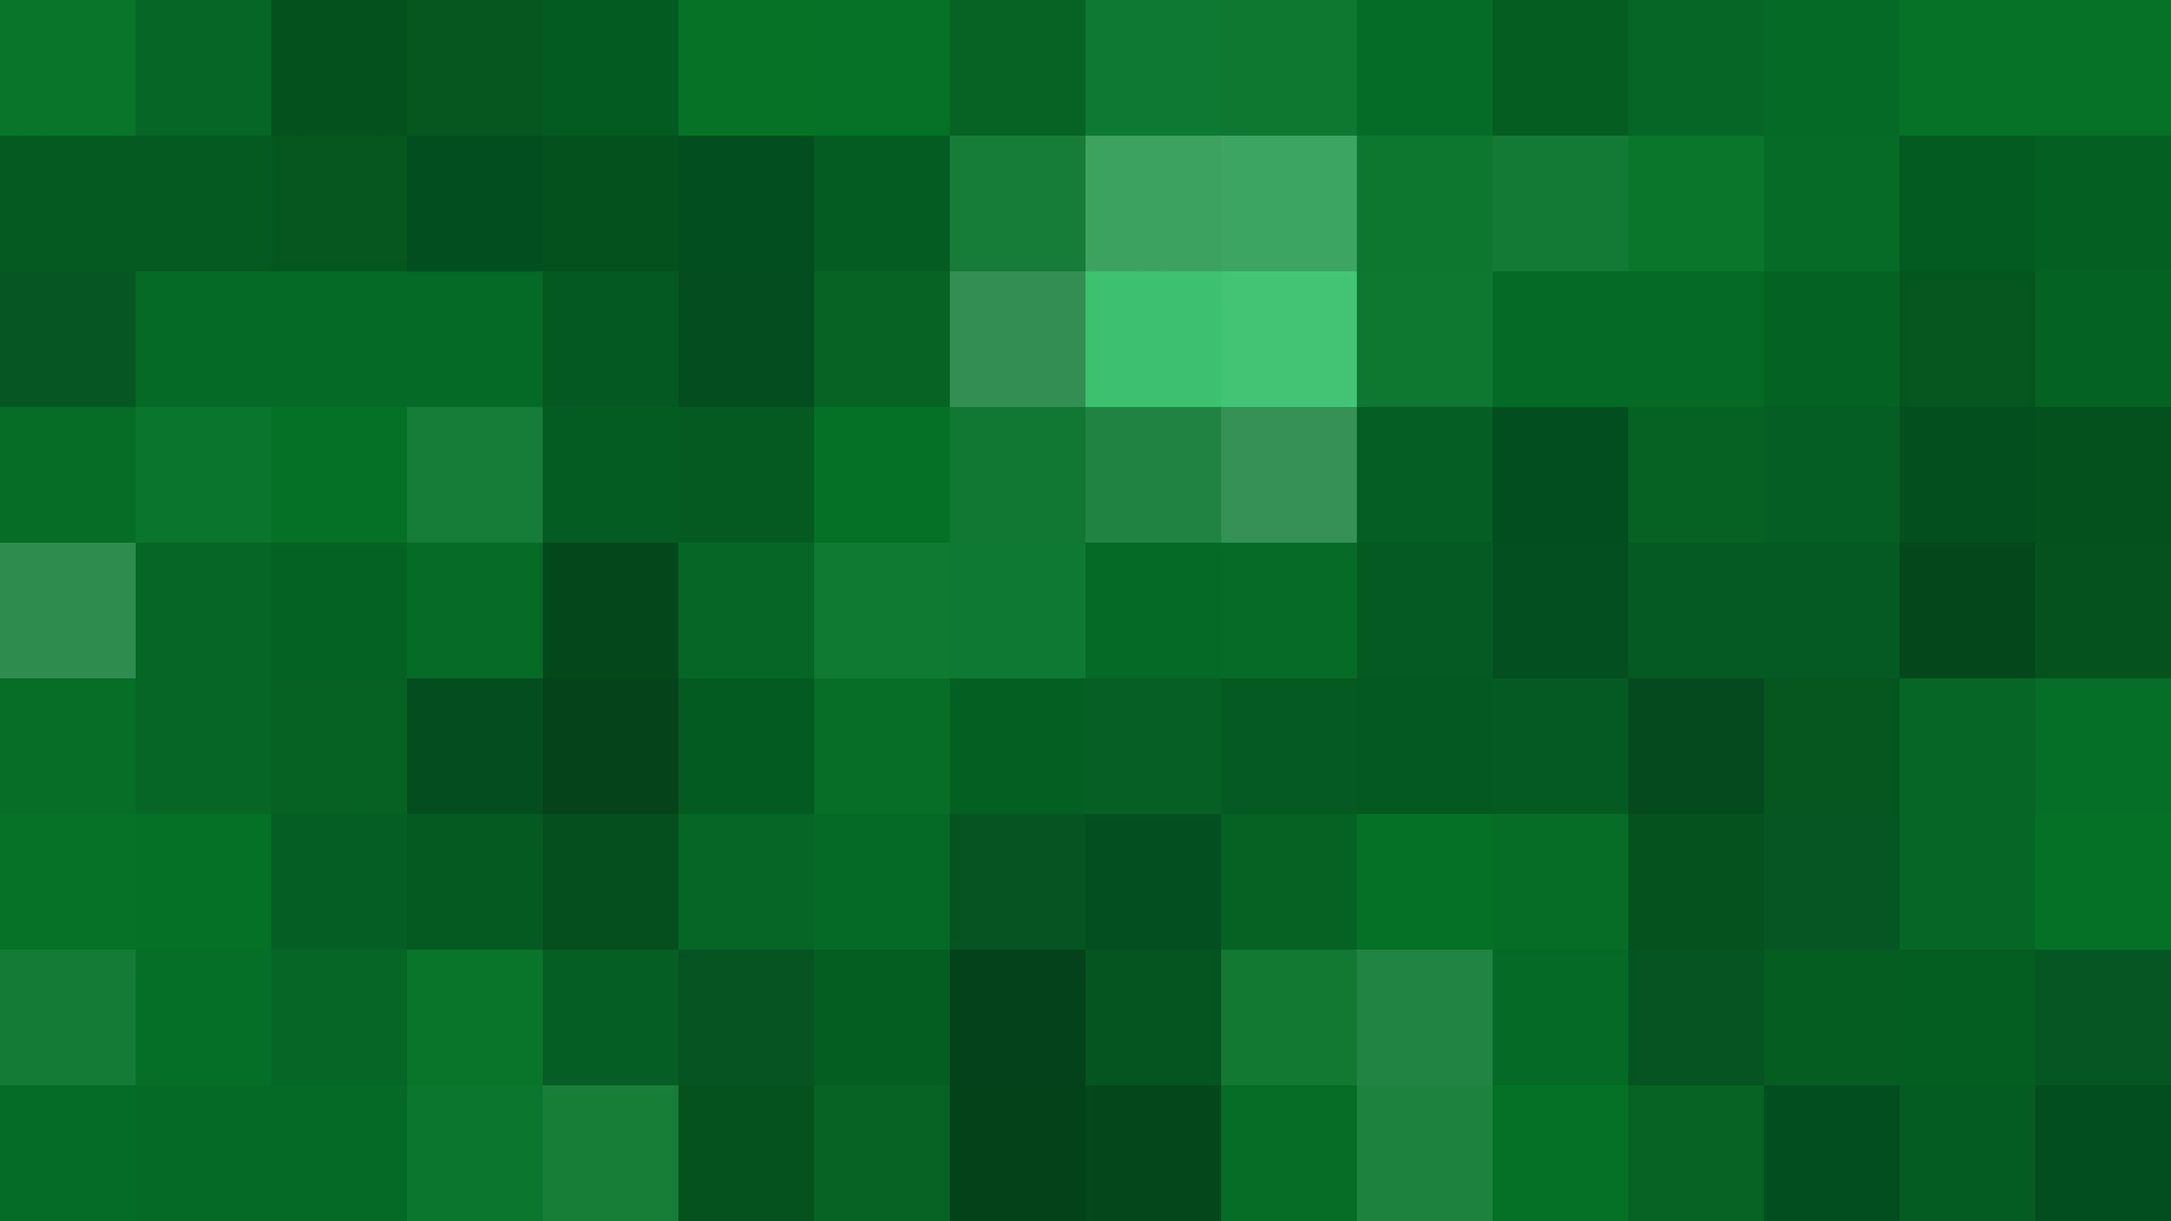
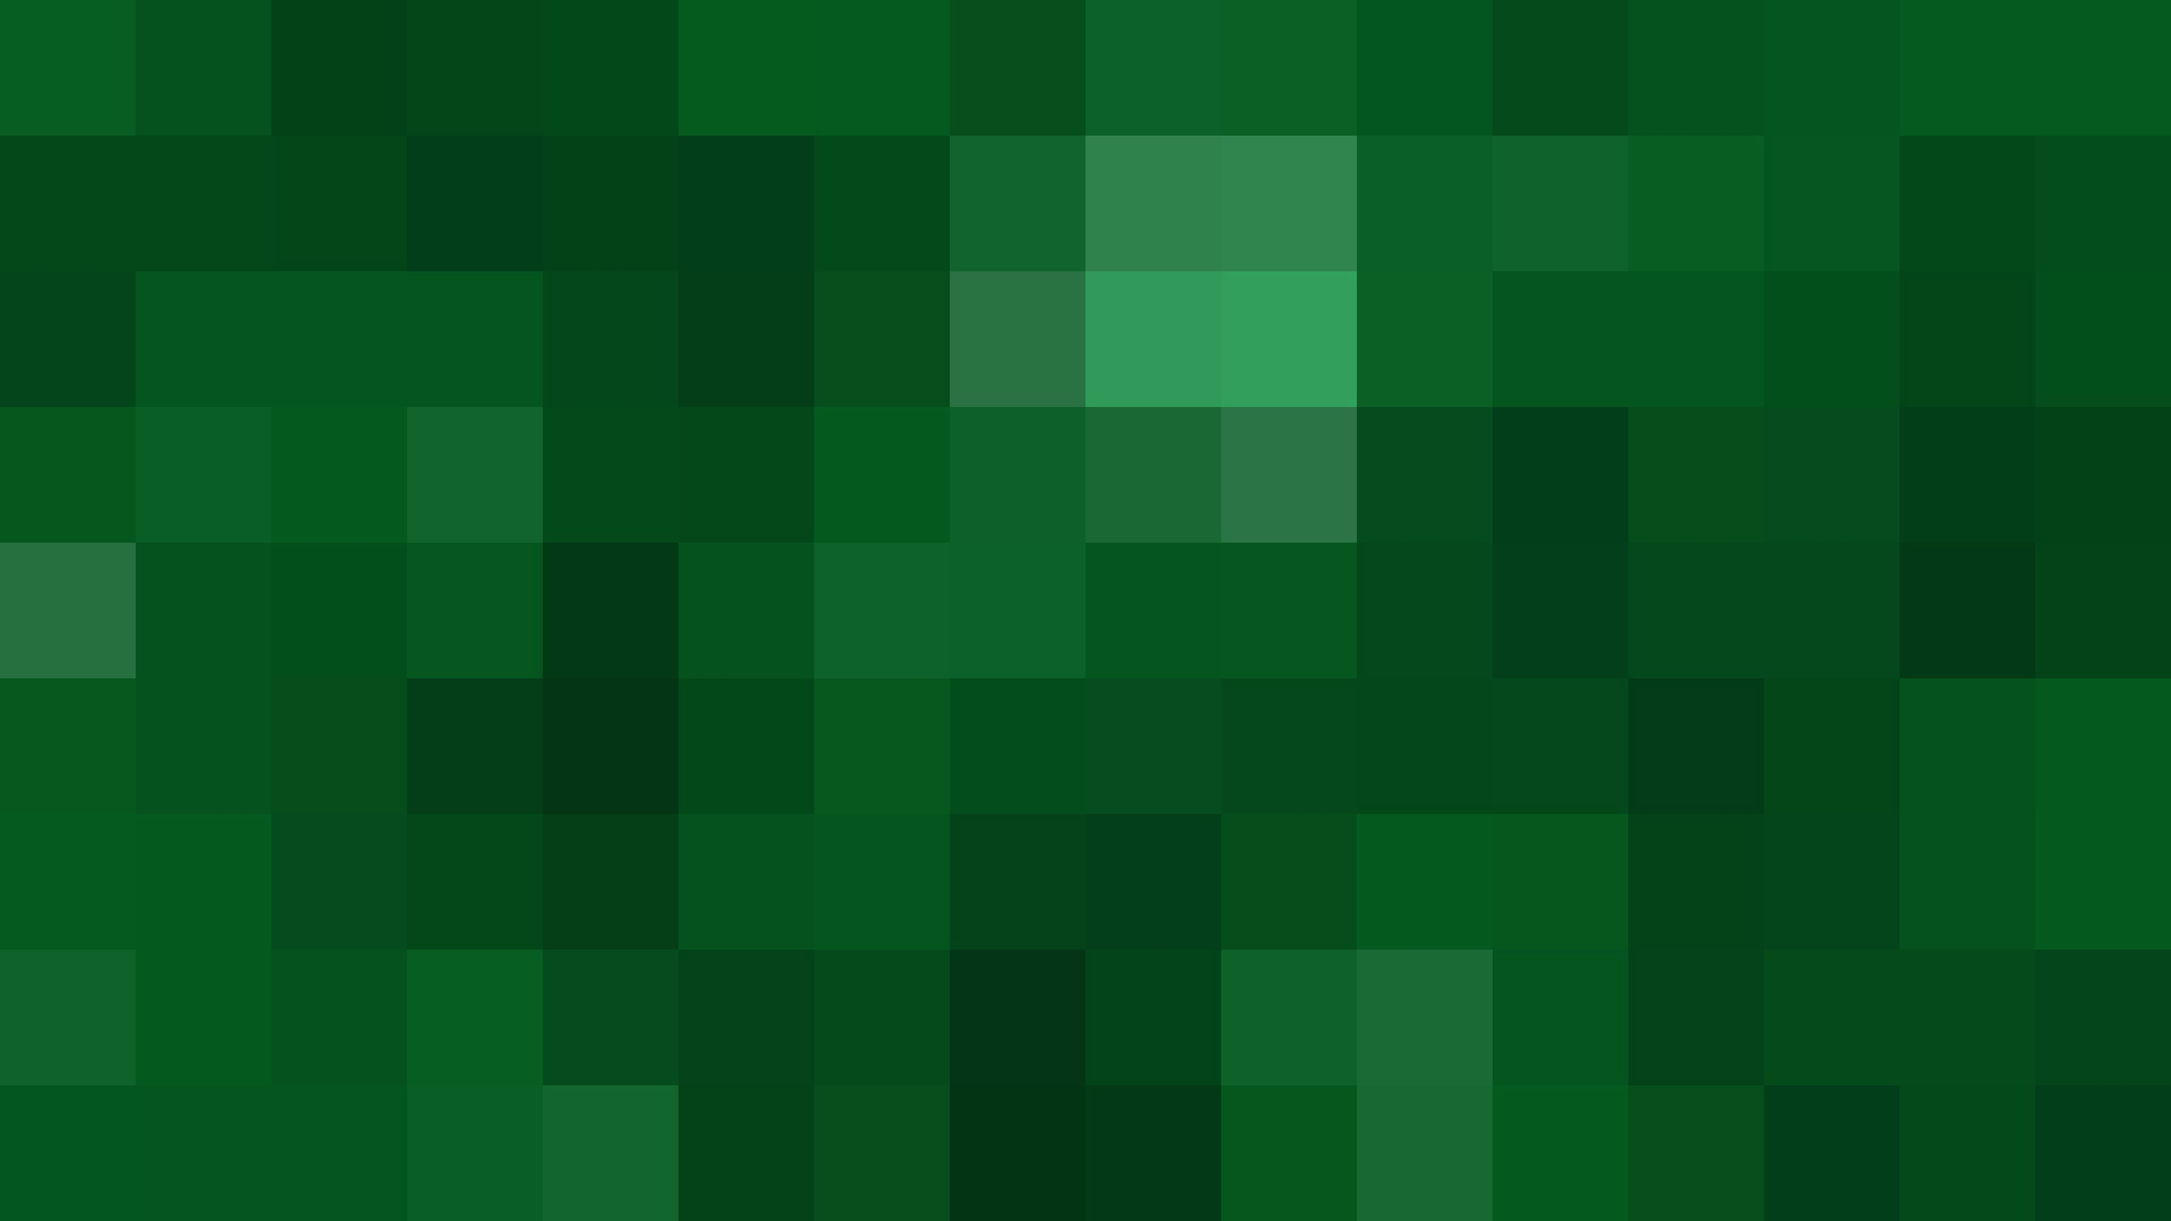
I did a lot of things now.
Funny enough, now is when I find a great deal of motivation in working on this passion of mine.

The three biggest changes visually are all text lines being centered on the page, the links being further separated by that respective class and the backgrounds made even darker for added visibility on the text.

There are also some other niffy changes I've done for further polish and all documentation along with it shall continue for a while as I now cherish this site of  mine.

diff --git a/index.html b/index.html
@@ -34,8 +34,8 @@
       <li><a href="#home">Home</a></li>
       <li><a href="#about">Bio</a></li>
       <li><a href="#education">Education</a></li>
-      <li><a href="#skills">Skills</a></li>
       <li><a href="#work">Work</a></li>
+      <li><a href="#skills">Skills</a></li>
       <li><a href="#contact">Contact</a></li>
       <div class="clearfix"></div>
     </ul>
@@ -112,9 +112,12 @@ given to the heading elements of each section. -->
       <div class="text">
 
         Of youth as a High School Sophomore, I'm seeking out job opportunity to power America's great future.
-        Coding is a useful of mine where I specialize in Hyper Text Markup Languge (HTML) for website deveolpment.
+        Coding is a versatile talent of mine where I specialize in Hyper Text Markup Languge (HTML) for website
+        deveolpment.
         I have passions for other activities such as competing in gaming tournaments, but also enjoy the outdoors with
         biking, swimming, and even running.
+
+
 
       </div>
 
@@ -162,15 +165,18 @@ given to the heading elements of each section. -->
 
       <div class="text">
 
-        I grew up in many different educational environments through my grade levels in clubs, and other outside school groups.
+        I grew up in many different educational environments through my grade levels in clubs, and other outside school
+        groups.
         These environments have exposed me to people who I've built a knack for aiding, that still persists today.
 
       </div>
 
       <div class="text">
 
-        My grades of all A's and B's have been a showing of how I'm able to keep up with myself as well during these years of assigned worked.
-        Once I graduate High School in my projected year of 2020 with my cumulative 4.0 GPA, I desire to further my career in the business world.
+        My grades of all A's and B's have been a showing of how I'm able to keep up with myself as well during these
+        years of assigned worked.
+        Once I graduate High School in my projected year of 2020 with my cumulative 4.0 GPA, I desire to further my
+        career in the business world.
 
       </div>
 
@@ -202,30 +208,36 @@ given to the heading elements of each section. -->
     <div class="text">
 
       Starting recently, I've been helping out businesses with volunteering.
-      My first of many major commitment has been with the Arizona Interscholastic Cycling Association where I helped with setting up race equipment before continuing my efforts with contribution towards racing registrations.
+      My first of many major commitment has been with the Arizona Interscholastic Cycling Association where I helped
+      with setting up race equipment before continuing my efforts with contribution towards racing registrations.
 
     </div>
 
     <div class="text">
 
-      In the digital world however, I've gone on to create multiple website, most of which entirely from scratch with only my own responsible for the end products, such as this one. 
-      Having a likeness in video games along my experience in Coding has also lead me to create many passion projects in High School that relate to Game design as well.
+      In the digital world however, I've gone on to create multiple website, most of which entirely from scratch with
+      only my own responsible for the end products, such as this one.
+      Having a likeness in video games along my experience in Coding has also lead me to create many passion projects
+      in High School that relate to Game design as well.
 
 
     </div>
 
     <div class="text">
 
-      All these efforts and many more lead a vast amount of potenital for what I see myself capable accomplishing for even bigger causes with my dire to forge bigger contributations to society
-      And my personal resume, which may be viewed here, should showcase this: 
+      All these efforts and many more lead a vast amount of potenital for what I see myself capable accomplishing for
+      even bigger causes with my dire to forge bigger contributations to society
+      And my personal resume, which may be viewed here, should showcase this:
 
     </div>
 
     <div class="text">
 
-      <a href="https://docs.google.com/document/d/19BAfIl3LLIyG31QPivQHDITuJ-4JKKwjqflXByrA3Bs/edit">:Resume:</a>
+      <a class="special" href="https://docs.google.com/document/d/19BAfIl3LLIyG31QPivQHDITuJ-4JKKwjqflXByrA3Bs/edit">:Resume
+        Document:</a>
 
-      <!-- The link to my resume is put in here as a direct link to the Google Drive. -->
+      <!-- The link to my resume is put in here as a direct link to said Google Drive. I also put it in
+      a sperate div class and give it a class of "special" so I can make it futher stand out. -->
 
     </div>
 
@@ -260,20 +272,24 @@ given to the heading elements of each section. -->
       <div class="text">
 
         Naturally, my talent for web design has brought me excellent motor skills with HTML5 and CSS3 programs.
-        I also must put my version control skills to the test in the process as well to manage all of my works effectively between multiple working stations.
+        I also must put my version control skills to the test in the process as well to manage all of my works
+        effectively between multiple working stations.
 
       </div>
 
       <div class="text">
 
-        Systems can also be the name of my game as well because of my long history in computer usage stemming even from my most impacting childhood days of deep learning.
-        That wide array of knowledge of computers has even left me among my many friends and even teachers as the first requested source for technical support, where I show great competence. 
+        Systems can also be the name of my game as well because of my long history in computer usage stemming even from
+        my most impacting childhood days of deep learning.
+        That wide array of knowledge of computers has even left me among my many friends and even teachers as the first
+        requested source for technical support, where I show great competence.
 
       </div>
 
       <div class="text">
 
-        My skills developing even further into areas such as technical writing and the future of my Javascript knowledge should show how much I'm capable of covering in the technical department.
+        My skills developing even further into areas such as technical writing and the future of my Javascript
+        knowledge should show how much I'm capable of covering in the technical department.
 
       </div>
 
@@ -299,41 +315,56 @@ given to the heading elements of each section. -->
 
       <img class="label" src="contact_label.png" alt="">
 
+      <!-- While teh specification sheet said to put the contacts in your work field section, I decided to give them their own section as the footer to stand out even easier for people interested. -->
+
     </div>
 
 
     <div class="text">
 
-      If you are at all interested in what I can potential do, I am very welcome to both answer questions and stir up discussions of how I should play a part of your plan.
+      If you are at all interested in what I can potential do, I am very welcome to both answer questions and stir up
+      discussions of how I should play a part of your plan.
 
     </div>
 
     <div class="text">
 
-      For calling, I keep it in my best interest to always have my cellular device on me with the number: <em> <a href="#contact">"623.296.7920"</a></em>
+      For calling, I keep it in my best interest to always have my cellular device on me with the number: <em> </em>
 
     </div>
 
     <div class="text">
+      <a class="special" href="#contact">"623.296.7920"</a>
+    </div>
 
-      My email account as well would consist of my active School inbox with: <em> <a href="#contact">"pcapuano@pvlearners.net"</a>
-      </em>
+
+    <div class="text">
+
+      My email account as well would consist of my active School inbox with: <em>
 
     </div>
 
     <div class="text">
-
-      And my last best place to contact with me would be my Slack profile with the email of: <em> <a href="#contact">"pcapuano978@west-mec.org"</a>
-      </em>
-
+      <a class="special" href="#contact">"pcapuano@pvlearners.net"</a>
     </div>
-
-    <!-- My three contact methods are put in with further em tags for added importance, and are also made links to the
-  Contact section again so they may inherit link styles as well. -->
 
     <div class="text">
 
-      If you have any questions regarding anything, then please let me know and I'll try to reach you as soon as I can!
+      And my last best place to contact with me would be my Slack profile with the email of:
+
+
+    </div>
+
+    <div class="text">
+      <a class="special" href="#contact">"pcapuano978@west-mec.org"</a>
+    </div>
+
+    <!-- My three contact methods are put in with added importance thanks to them being on seperate lines and also with the same "special" class as the resume link. -->
+
+    <div class="text">
+
+      If you have any questions regarding anything, then please let me know and I'll try to reach you as soon as I
+      possibly can!
 
     </div>
 

diff --git a/main.css b/main.css
@@ -11,8 +11,7 @@ html {
     position: relative;
 }
 
-/* The background image is set in and is very tiny to give a unique tile effect that will be rpeatible seen throughout the pages.
-The page is also given a relative page positioning. */
+/* The background image is set in and is very tiny to give a unique tile effect that will be rpeatible seen throughout the pages. The page is also given a relative page positioning. */
 
 body {
     width: 100%;
@@ -20,11 +19,37 @@ body {
 
 /* Body width is set to take up the whole page's amount. */
 
+div.text {
+    text-align: center;
+}
+
+/* All informational text in the div elements, further classified by the "text" class, will have centered text across the pages.  */
+
 .clearfix:after {
     content: "";
     display: table;
     clear: both;
 }
+
+a.special {
+    font-size: 1.25em;
+    -webkit-text-stroke: 1px;
+    -webkit-text-fill-color: black;
+}
+
+/* All links with the tag of "special" have a font style of 1.25em with black 1 pixel outline strokes. */
+
+a.special:visited {
+    color: white;
+}
+
+/* The speical links regardless of being visted or not, are to be always be the white color. */
+
+a.special:hover {
+    color: aqua;
+}
+
+/* When the cursor hovers over the special links, they will have their color changed to aqua. */
 
 /* Universal container collpase fail safe put in after all pages. */
 
@@ -71,8 +96,7 @@ h1#name {
     opacity: .8;
 }
 
-/* The main name h1 element pushes the padding up and down by 1.7 ems, is darkgrat and centered, has a size
-of 5em, and is given a text shadow three pixels displaced horizontally and vertically alongside slight transparency.  */
+/* The main name h1 element pushes the padding up and down by 1.7 ems, is darkgrat and centered, has a size of 5em, and is given a text shadow three pixels displaced horizontally and vertically alongside slight transparency.  */
 
 section#home {
     padding: 6em 0em 6em 0em;
@@ -82,8 +106,7 @@ section#home {
 }
 
 /* The section in the home is given horizontal padding of 6em, no margins, a background gradient
-that goes from transpaent black to transparent white back and forth,
-and a filter to give it drop shadows on the edges. */
+that goes from transpaent black to transparent white back and forth, and a filter to give it drop shadows on the edges. */
 
 nav ul {
     text-align: center;
@@ -100,10 +123,7 @@ nav ul {
     border: solid 1px aqua;
 }
 
-/* The manin navigation tab has its text cented, with big horizontal padding alongside slight bottom padding, takes up
-the full screen width, has a height of 1 em, a perfectly centered margin space, no list decorations, a font-family
-list as such, given another tile background with only 2% in size; all of which is fixed and always in-front with a border
-that is solid with 1px that is aqua colored. */
+/* The manin navigation tab has its text cented, with big horizontal padding alongside slight bottom padding, takes up the full screen width, has a height of 1 em, a perfectly centered margin space, no list decorations, a font-family list as such, given another tile background with only 2% in size; all of which is fixed and always in-front with a border that is solid with 1px that is aqua colored. */
 
 nav li {
     padding: 0 3%;
@@ -121,8 +141,7 @@ nav li a {
     font-size: 1.5em;
 }
 
-/* The individual links in the navigation list have their rext-decoration removed, are lavender, are given a black
-text-shadow with 1px on both offsets, font-weight to bold, and a font-size of 2em. */
+/* The individual links in the navigation list have their rext-decoration removed, are lavender, are given a black text-shadow with 1px on both offsets, font-weight to bold, and a font-size of 2em. */
 
 nav ul a:hover {
     color: black;
@@ -141,39 +160,36 @@ section#about {
     border: inset darkgray 2px;
 }
 
-/* Our first section, the about page, has a black tiled background put in place with a 2px, inset, darkgray border
-that will be shared with the rest of the elements. */
+/* Our first section, the about page, has a black tiled background put in place with a 2px, inset, darkgray border that will be shared with the rest of the elements. */
 
 #about h1 {
     text-align: center;
     float: center;
     color: darkgray;
-    font-size: 3em;
+    font-size: 3.5em;
     text-shadow: 2px 2px black;
     -webkit-text-stroke: 1px;
     -webkit-text-fill-color: black;
 }
 
-/* The h1s starting with this one have their text alinged to the center, alongside getting flated their, text colors of
-darkgray, font-sizes of 3em, black text-shadows with 2px offsets, and finally 1px color outlines of black.  */
+/* The h1s starting with this one have their text alinged to the center, alongside getting flated their, text colors of darkgray, font-sizes of 3.5em, black text-shadows with 2px offsets, and finally 1px color outlines of black.  */
 
 #about h2 {
     text-align: center;
     color: darkgray;
+    padding-bottom: 1em;
     font-size: 2.5em;
     text-shadow: 2px 2px black;
 }
 
-/* An h2 element exclusive to this part has its text also centered, is darkgray in color, has a font-size of 2.5em,
-and has a text-shadow with 2px offsets that is black. */
+/* An h2 element exclusive to this part has its text also centered, is darkgray in color, posses a bottom padding of 1em, has a font-size of 2.5em, and has a text-shadow with 2px offsets that is black. */
 
 #about img {
     float: right;
     padding: 0 3% 3%;
 }
 
-/* Every odd numbered page starting with the about section will have their image floated to the right, and padded out
-every direction, but up with 3% of space. */
+/* Every odd numbered page starting with the about section will have their image floated to the right, and padded out every direction, but up with 3% of space. */
 
 #about div.text {
     padding: 2%;
@@ -184,9 +200,7 @@ every direction, but up with 3% of space. */
     -webkit-text-fill-color: darkgray;
 }
 
-/* Our last element in a group shall be its text established by a class of "text" to target. These paragraphs will have
-padding all around of 2%, black text-color, a black shadow as well offset by 2px both directions, and a font outline
-that will be .4 subpixles in lenth and darkgray.  */
+/* Our last element in a group shall be its text established by a class of "text" to target. These paragraphs will have padding all around of 2%, black text-color, a black shadow as well offset by 2px both directions, and a font outline that will be .4 subpixles in lenth and darkgray.  */
 
 /* Education Styles */
 
@@ -203,7 +217,7 @@ The starting style rule however will have a different image tiled in the backgro
 #education h1 {
     color: darkgray;
     text-align: center;
-    font-size: 3em;
+    font-size: 3.5em;
     text-shadow: 2px 2px black;
     -webkit-text-stroke: 1px;
     -webkit-text-fill-color: black;
@@ -223,8 +237,7 @@ The starting style rule however will have a different image tiled in the backgro
     padding: 0 3% 3%;
 }
 
-/* Every even numbered page will have their image floaded to the left of the text as opposed to the right instead.
-this is to give a distict pattern to the structures. */
+/* Every even numbered page will have their image floaded to the left of the text as opposed to the right instead. this is to give a distict pattern to the structures. */
 
 /* Work Styles */
 
@@ -274,7 +287,7 @@ section#skills {
 #skills h1 {
     color: darkgray;
     text-align: center;
-    font-size: 3em;
+    font-size: 3.5em;
     text-shadow: 2px 2px black;
     -webkit-text-stroke: 1px;
     -webkit-text-fill-color: black;
@@ -331,14 +344,19 @@ footer#contact {
 
 @media only screen and (max-width: 640px) {
 
-    /* Finally, we have our mobile style that target devices with less than 640px in total screen width for better viewing
-experinces on those platforms. */
+    /* Finally, we have our mobile style that target devices with less than 640px in total screen width for better viewing experinces on those platforms. */
 
     img {
         display: none;
     }
 
     /* This is done first by getting rid of all images that would otherwise clutter up the website columns. */
+
+    div.text {
+        margin: 1em 0;
+    }
+
+    /* The main informational text has its line adjusted to space its content more apart in mobile mode thanks to an inclusion of a 1em margin. */
 
     nav ul {
         padding-bottom: 2.5em;
